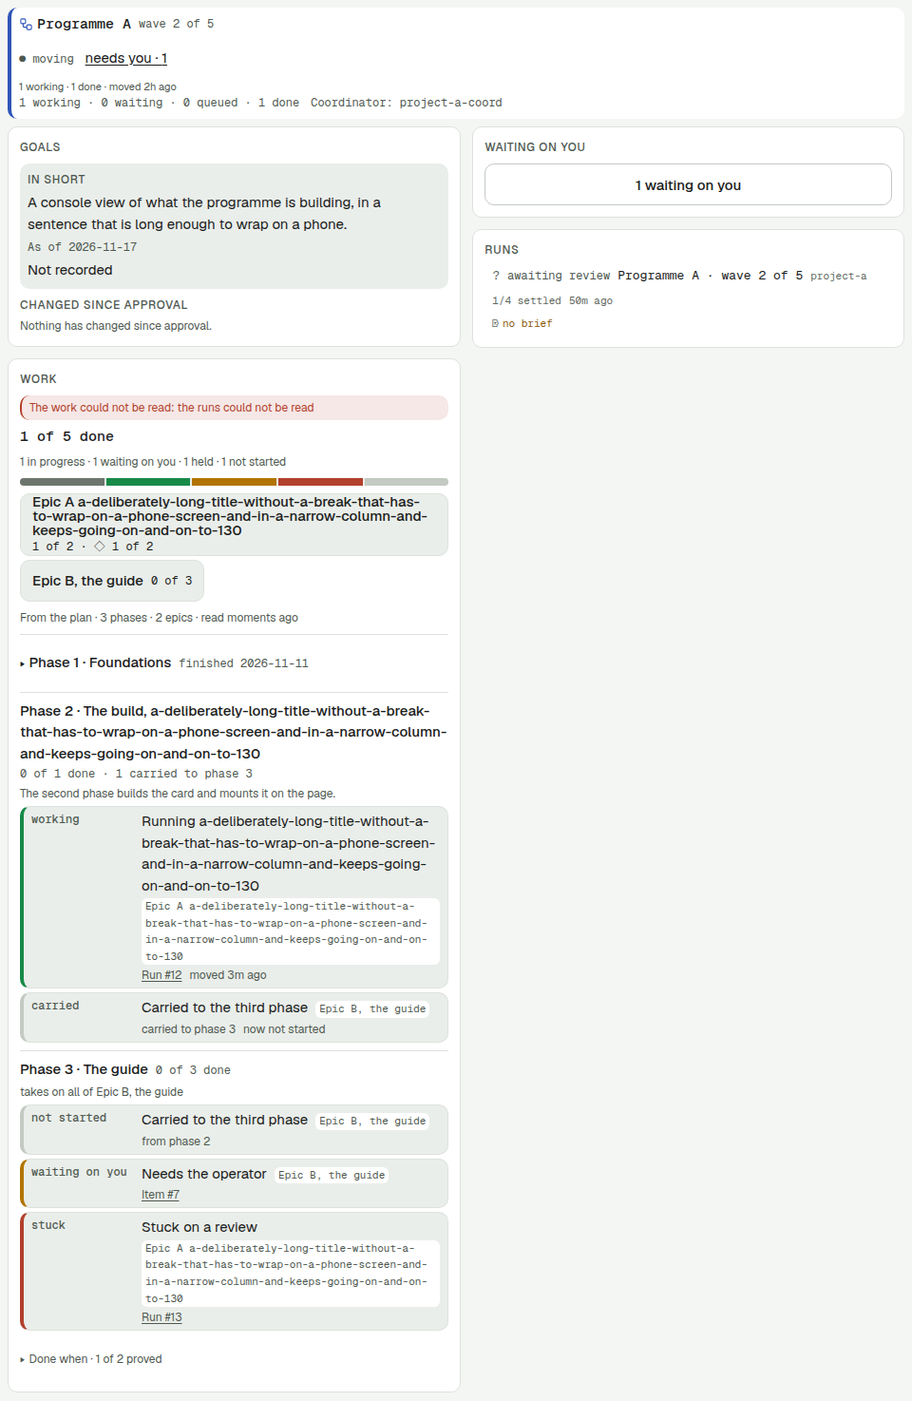
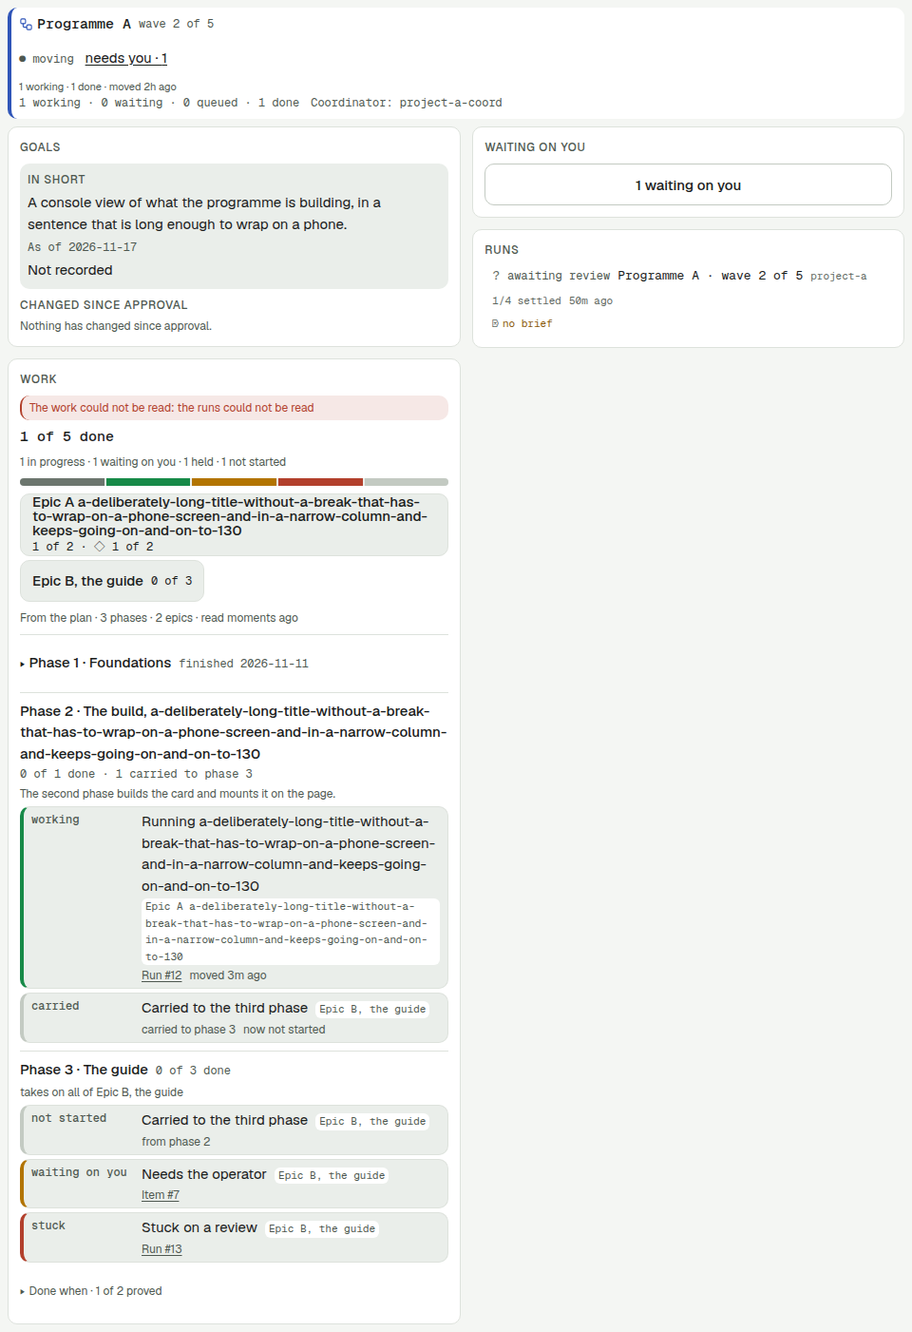
fix(console): the work card keeps a title's room, reads a newer server's words and checks the shape it walks
The three-column row starts at 43rem, so a title keeps its phone room in a
one-column window of about 690 to 719px; the facts' third-track placement is
pinned in jsdom and in Chrome; the work read's shape check covers end,
beforePlan and runs; a status, checkpoint kind or unreadable word the build
does not know is drawn as the server wrote it; the browser sample data agrees
with itself and the pictures are re-taken.

diff --git a/pwa/browser/programme-work-page.browser.test.ts b/pwa/browser/programme-work-page.browser.test.ts
@@ -1,10 +1,13 @@
 // The programme page with its Work card (programme work map WM4, D-8823; plan Task WM4's width table; spec 2026-11-16 §5), in a
-// real Chrome over the production build, at 360, 390, 1280, 1470 and 1920, in both skins and both themes. `test/programme-screen.test.tsx`
+// real Chrome over the production build, at 360, 390, 800, 1280, 1470 and 1920, in both skins and both themes. `test/programme-screen.test.tsx`
 // holds the page's behaviour in jsdom (what it reads, keeps and links); this file holds what only an engine can say:
 //   * the order: at 360 and 390 one column, Goals, Work, Waiting on you, Runs; from 1280 two columns, Goals then Work on the
 //     left and Waiting on you then Runs on the right, Waiting on you level with the top of Goals;
 //   * the card's own layout follows ITS width, not the viewport's (D-8806 `layout-by-the-cards-width`): a row is one column at
-//     360 and 390 and three (status, title with its tag, facts) from 1280, measured as the row's computed grid tracks;
+//     360 and 390, two (status | title, the facts under the title) from a 26rem card, which is 1280, 1470 and 1920, and three (status,
+//     title with its tag, facts) from a 43rem card, which only an 800 window reaches (the page is one column under 900 and its card is
+//     as wide as the page); measured as the row's computed grid tracks and the facts' place. No desktop width draws the one-row layout:
+//     the left column's card is about 450px at 1280 and about 550px at 1920 (review 2956 F3);
 //   * nothing scrolls sideways, and nothing is clipped or cut short: no phase title, ticket title or epic tag wider than its box,
 //     no ellipsis, with a title of 130 unbroken characters and a long epic and phase title that have to wrap, the folded groups
 //     opened as well as closed.
@@ -23,9 +26,12 @@ import { itemView, waitingView } from '../test/ledgersFixture';
 
 const THEMES = [PHOSPHOR, 'light'];
 const SKINS = [REFINED, INSTRUMENT];
-// 800 is the one sampled width between 690 and 900: the page is one column there and the card as wide as the page, so the card's 40rem step
-// applies, which no wider window reaches the left column of (review 2922 A7).
+// 800 is the one sampled width between 690 and 900: the page is one column there and the card as wide as the page, so the card's 43rem step
+// applies, which no wider window reaches the left column of (review 2922 A7). The windows just under the step are sampled on their own
+// below (`NEAR_THE_STEP`), where the title's room was short before the step moved from 40rem (review 2956 F2).
 const WIDTHS = [360, 390, 800, 1280, 1470, 1920];
+/** The one-column windows that put the card just under, and just past, the 43rem three-column step (a card is the window less 42px here). */
+const NEAR_THE_STEP = [690, 700, 715, 719, 725, 731, 740];
 const named = (v: AppView): string => `${v.skin}, ${v.theme}, ${v.width}px`;
 
 const NOW = Date.now();
@@ -46,7 +52,7 @@ const ITEMS = [
   ticket('t-3', 'Carried to the third phase', 'not-started', 'not-started', { epic: EPIC_B, phases: [
     { key: 'p2', number: 2, carriedTo: { key: 'p3', number: 3 }, carriedFrom: [] }, { key: 'p3', number: 3, carriedTo: null, carriedFrom: [{ key: 'p2', number: 2 }] }] }),
   ticket('t-4', 'Needs the operator', 'waiting-on-you', 'waiting-on-you', { epic: EPIC_B, itemIds: [7], phases: [{ key: 'p3', number: 3, carriedTo: null, carriedFrom: [] }] }),
-  ticket('t-5', 'Stuck on a review', 'stuck', 'held', { runId: 13, phases: [{ key: 'p3', number: 3, carriedTo: null, carriedFrom: [] }] }),
+  ticket('t-5', 'Stuck on a review', 'stuck', 'held', { epic: EPIC_B, runId: 13, phases: [{ key: 'p3', number: 3, carriedTo: null, carriedFrom: [] }] }),
 ];
 const WORK: WorkMapView = {
   source: 'plan', end: null, verdicts: 'read', counts: { ...ZERO, done: 1, 'in-progress': 1, 'waiting-on-you': 1, held: 1, 'not-started': 1 }, items: ITEMS,
@@ -126,6 +132,8 @@ interface Measured {
   /** The first ticket row's computed grid tracks, in px: one on a phone, two (status | title, the facts under the title) from a 26rem card,
    *  three (status | title | facts) from a 40rem card. */
   tracks: number[];
+  /** A row with facts (t-2): its title and its facts, as boxes, to say where the facts stand against the title (review 2956 F5). */
+  placed: { what: Box; facts: Box };
   rem: number;
   /** The width of the plain ticket's `.wk-what` (its title with its tag): the room a title has (review 2922 F2). */
   titleTrack: number;
@@ -162,6 +170,7 @@ const measure = (root: Element): Measured => {
     root: { scrollWidth: root.scrollWidth, clientWidth: root.clientWidth, box: box(root) },
     goals: box(one('.pv-main > .pv-card')), work: box(card.closest('.pv-card')!), cardWidth: cardBox.width, waiting: box(one('section[aria-label="Waiting on you"]')), runs: box(one('[data-testid="programme-runs"]')),
     tracks: getComputedStyle(row).gridTemplateColumns.split(' ').map(parseFloat),
+    placed: { what: box(one('.wk-row[data-ticket="t-2"] .wk-what')), facts: box(one('.wk-row[data-ticket="t-2"] .wk-facts')) },
     rem: parseFloat(getComputedStyle(document.documentElement).fontSize),
     titleTrack: box(one('.wk-row[data-ticket="t-4"] .wk-what')).width,
     head: {
@@ -192,13 +201,24 @@ const open = async (view: AppView) => {
 };
 
 /** The card's row layout by the card's own width, as the stylesheet's two container steps say it (`card-width-steps`): one track below 26rem, two
- *  from 26rem (status | title, the facts under it), three from 40rem (status | title | facts); the status track is 6.75rem and then 7.5rem. */
+ *  from 26rem (status | title, the facts under it), three from 43rem (status | title | facts); the status track is 6.75rem and then 7.5rem. */
+const STEP_THREE = 43;
+const STEP_TWO = 26;
 const assertRowLayout = (m: Measured, at: string, width: number): void => {
-  const want: readonly [number | null, number] = m.cardWidth >= 40 * m.rem ? [7.5, 3] : m.cardWidth >= 26 * m.rem ? [6.75, 2] : [null, 1];
+  const want: readonly [number | null, number] = m.cardWidth >= STEP_THREE * m.rem ? [7.5, 3] : m.cardWidth >= STEP_TWO * m.rem ? [6.75, 2] : [null, 1];
   expect(m.tracks.length, `${at}: a ${Math.round(m.cardWidth)}px card draws ${m.tracks.length} row tracks, not ${want[1]}`).toBe(want[1]);
   if (want[0] !== null) expect(m.tracks[0], `${at}: the status track`).toBeCloseTo(want[0] * m.rem, 0);
-  // From 800 up a row is never stacked in one column; the 800 case is the one that reaches the second step on a window under 900.
+  // Where the facts stand (review 2956 F5): in the third track, right of the title, from the three-column step; under the title, level with its
+  // left edge, in a two-track row. Deleting the facts' `grid-column: auto` leaves them under the title with the third track empty: red here.
+  if (want[1] === 3) expect(m.placed.facts.left, `${at}: the facts are not right of the title in a three-track row`).toBeGreaterThanOrEqual(m.placed.what.right - 0.5);
+  if (want[1] === 2) {
+    expect(m.placed.facts.top, `${at}: the facts are not under the title in a two-track row`).toBeGreaterThanOrEqual(m.placed.what.bottom - 0.5);
+    expect(Math.abs(m.placed.facts.left - m.placed.what.left), `${at}: the facts are not under the title's left edge`).toBeLessThan(1);
+  }
+  // From 800 up a row is never stacked in one column; the 800 case is the one that reaches the second step on a window under 900, and it has to
+  // reach it: a sample whose card fell under the step would pass the track count above on the wrong layout (review 2956 M6).
   if (width >= 800) expect(m.tracks.length, `${at}: a row is stacked on a wide window`).toBeGreaterThanOrEqual(2);
+  if (width === 800) expect(m.cardWidth, `${at}: the 800 sample no longer reaches the three-column step`).toBeGreaterThanOrEqual(STEP_THREE * m.rem);
 };
 
 let phoneTrack: Promise<number> | undefined;
@@ -210,6 +230,18 @@ const phoneTitleTrack = (): Promise<number> => {
   })();
   return phoneTrack;
 };
+
+// The sample data agrees with itself (review 2956 F4): a row's tag names the epic that lists it, so a chip's count and the rows under it, and every
+// picture taken from this data, read the way a real server's data does (it builds a row's tag and an epic's items from the same epic key).
+describe('the sample data is consistent (WM7)', () => {
+  it('every epic lists the tickets whose tag names it, and only those', () => {
+    for (const e of WORK.epics) {
+      expect(ITEMS.filter((i) => i.epic?.key === e.key).map((i) => i.key), `epic ${e.key}`).toEqual(e.items);
+      expect(e.total, `epic ${e.key}'s total`).toBe(e.items.length);
+    }
+    expect(WORK.epics.flatMap((e) => e.items).sort(), 'every ticket is listed by one epic').toEqual(ITEMS.map((i) => i.key).sort());
+  });
+});
 
 describe('the programme page with its Work card, per width, skin and theme (WM4)', () => {
   for (const width of WIDTHS) {
@@ -272,6 +304,28 @@ describe('the programme page with its Work card, per width, skin and theme (WM4)
         }
       }
     }, 300_000);
+  }
+});
+
+// Review 2956 F2: just under the three-column step a one-column window's card is 640 to 688px, where the three tracks (the first form of
+// the step, 40rem) left the title 259 to 307px against the phone's 297. From 43rem it keeps 307px or more, and below it the two-track row
+// keeps over 500px, so the title's room at every window near the step is at least the phone's.
+describe('a ticket\'s title keeps its phone room just under and just past the three-column step (WM7)', () => {
+  for (const width of NEAR_THE_STEP) {
+    it(`at ${width}px, ${REFINED}, light`, async () => {
+      const view: AppView = { skin: REFINED, theme: 'light', width };
+      const { ctx, errors, root } = await open(view);
+      try {
+        const m = await root.evaluate(measure);
+        const ref = await phoneTitleTrack();
+        expect(m.titleTrack, `${width}px: a ticket's title has less room (${Math.round(m.titleTrack)}px) than on a phone (${Math.round(ref)}px)`).toBeGreaterThanOrEqual(ref - 1);
+        assertRowLayout(m, `${width}px`, width);
+        expect(m.pageScrollWidth, `${width}px: the page scrolls sideways`).toBeLessThanOrEqual(m.pageClientWidth);
+        expect(errors, 'page errors').toEqual([]);
+      } finally {
+        await ctx.close();
+      }
+    }, 120_000);
   }
 });
 

diff --git a/pwa/test/work-card.test.tsx b/pwa/test/work-card.test.tsx
@@ -10,7 +10,7 @@ import { WORK_APART_GROUPS, WORK_COUNTED_GROUPS, WORK_GROUPS, WORK_STATUSES, typ
 import { WorkCard } from '../src/ledgers/WorkCard';
 import type { WorkCardAnswer } from '../src/ledgers/workMapWords';
 import {
-  NOTES, carriedWords, carriedTargetsOf, doneWhenLine, epicChip, foldLabel, headline, initiativeNote, outstandingLine, phaseLine, sourceLine, statusWord,
+  NOTES, carriedWords, carriedTargetsOf, checkpointFacts, doneWhenLine, epicChip, foldLabel, headline, initiativeNote, outstandingLine, phaseLine, sourceLine, statusWord,
   readFailedNote, unreadableNote, untitledWords, wholeEpicLine,
 } from '../src/ledgers/workMapWords';
 import { effectiveValue, stripComments } from './cssRule';
@@ -607,9 +607,16 @@ describe('the layout rows of the plan table', () => {
   const css = stripComments(readFileSync(path.join(__dirname, '../src/ledgers/ledgers.css'), 'utf8'));
   it('a row is one column at 360 and 390, and one row from the wide layouts', () => {
     expect(css).toMatch(/\.wk-card \.wk-row\s*\{[^}]*grid-template-columns:\s*minmax\(0, 1fr\)/);
-    // Two steps (WM4, D-8823 `card-width-steps`, fix round 1): two columns from 26rem with the facts under the title, three from 40rem.
+    // Two steps (WM4, D-8823 `card-width-steps`, fix round 1): two columns from 26rem with the facts under the title, three from 43rem.
     expect(css).toMatch(/@container work \(min-width: 26rem\)\s*\{[^@]*\.wk-card \.wk-row\s*\{[^}]*grid-template-columns:\s*6\.75rem minmax\(0, 1fr\);[^@]*\.wk-card \.wk-facts\s*\{\s*grid-column:\s*2;/);
-    expect(css).toMatch(/@container work \(min-width: 40rem\)\s*\{[^@]*\.wk-card \.wk-row\s*\{[^}]*grid-template-columns:\s*7\.5rem minmax\(0, 1fr\) minmax\(0, 14rem\)/);
+    expect(css).toMatch(/@container work \(min-width: 43rem\)\s*\{[^@]*\.wk-card \.wk-row\s*\{[^}]*grid-template-columns:\s*7\.5rem minmax\(0, 1fr\) minmax\(0, 14rem\)/);
+    // The facts go back into the third track from that step: without `grid-column: auto` they stay in column 2, under the title, and the
+    // third track stays empty on every card of 43rem or wider (review 2956 F5).
+    expect(css).toMatch(/@container work \(min-width: 43rem\)\s*\{[^@]*\.wk-card \.wk-facts\s*\{[^}]*grid-column:\s*auto/);
+    // The step keeps a title at least the room a phone gives it (review 2956 F2): the card's width at the step less the three tracks and the chrome
+    // (21 + 16 + 120 + 224 = 381px at 16px a rem) is no less than the phone's 318 - 21 = 297px.
+    const step = Number(/@container work \(min-width: (\d+)rem\)\s*\{[^@]*7\.5rem minmax/.exec(css)![1]);
+    expect(step * 16 - 381, 'a title keeps its phone room at the three-column step').toBeGreaterThanOrEqual(297);
     expect(effectiveValue(css, '.wk-card .wk-strip', 'flex-wrap')).toBe('wrap');
   });
   it('colours are tokens only', () => {
@@ -720,5 +727,34 @@ describe('the page\'s failed read (WM4, D-8823 failed-read-arm)', () => {
   it('spells the sentence once for the server\'s word and the page\'s', () => {
     expect(readFailedNote('x')).toBe('The work could not be read: x');
     expect(unreadableNote('read-failed')).toBe(readFailedNote('a read failed'));
+  });
+});
+
+// Review 2873 F15: every word the server sends is looked up in a table of this build's words, and one this build does not know (a
+// newer server's) reads as itself, never as "undefined".
+describe('a word from a newer server reads as itself (review 2873 F15)', () => {
+  it('a ticket status this build has no word for is drawn as the server wrote it', () => {
+    const t = item('t-1', 'not-started', { status: 'newly-added' as WorkStatus });
+    const { container } = draw(view({ counts: zero({ 'not-started': 1 }), items: [t], epics: [epic(EPIC_A, { total: 1, items: ['t-1'] })] }));
+    expect(container.querySelector('.wk-row .wk-status')!.textContent).toBe('newly-added');
+    expect(container.textContent).not.toContain('undefined');
+    expect(statusWord('constructor' as WorkStatus)).toBe('constructor');
+    expect(statusWord('working')).toBe('working');
+  });
+
+  it('a carried row keeps an unknown status now as the server wrote it', () => {
+    expect(carriedWords.now('newly-added' as WorkStatus)).toBe('now newly-added');
+    expect(carriedWords.now('working')).toBe('now working');
+  });
+
+  it('a checkpoint kind this build has no word for is written as the server wrote it', () => {
+    expect(checkpointFacts({ kind: 'new-kind' as never, state: 'open', metAt: null, evidence: null })).toBe('new-kind · open');
+    expect(checkpointFacts({ kind: 'operator-act', state: 'open', metAt: null, evidence: null })).toBe('operator act · open');
+  });
+
+  it('an unreadable word this build has no phrase for is written as the server wrote it, on the note and on the card', () => {
+    expect(unreadableNote('new-word' as never)).toBe('The work could not be read: new-word');
+    draw({ unreadable: 'new-word' as never });
+    expect(screen.getByRole('alert').textContent).toBe('The work could not be read: new-word');
   });
 });

diff --git a/pwa/src/ledgers/workMapWords.ts b/pwa/src/ledgers/workMapWords.ts
@@ -25,6 +25,11 @@ export type WorkCardAnswer =
   | { unreadable: WorkUnreadable; last?: WorkMapView | null }
   | { readFailed: string; last?: WorkMapView | null };
 
+/** A server's word looked up in a table of this build's words. A word the table does not hold (a newer server's) reads as itself,
+ *  never as "undefined" (review 2873 F15); `hasOwn`, so a word such as "constructor" is not found on the prototype. One owner of
+ *  the fallback: every lookup of a word the server sent goes through it. */
+const wordIn = (table: Readonly<Record<string, string>>, word: string): string => (Object.hasOwn(table, word) ? table[word]! : word);
+
 /** A ticket's status in the operator's words, one per `WorkStatus` and spelt once (spec Table 6). `done-unverified` is the
  *  front of "marked done, but …": the row's facts carry the reason that finishes the sentence. */
 export const STATUS_WORD: Readonly<Record<WorkStatus, string>> = {
@@ -44,7 +49,7 @@ export const STATUS_WORD: Readonly<Record<WorkStatus, string>> = {
   'not-started': 'not started',
   failed: 'failed',
 };
-export const statusWord = (status: WorkStatus): string => STATUS_WORD[status];
+export const statusWord = (status: WorkStatus): string => wordIn(STATUS_WORD, status);
 
 /** An outstanding group's words in the outstanding line (spec §5 item 1). Keyed by the counted groups less `done`, so a group
  *  the server starts counting is a compile error until it has a word; the line writes them in `WORK_COUNTED_GROUPS` order
@@ -157,7 +162,7 @@ export const carriedWords = {
   status: 'carried',
   to: (n: number): string => `carried to phase ${n}`,
   /** A carried-out row keeps its status now beside the carry (spec Table 6a: "carried to phase N, with its status now"). */
-  now: (status: WorkStatus): string => `now ${STATUS_WORD[status]}`,
+  now: (status: WorkStatus): string => `now ${statusWord(status)}`,
   from: (f: { key: string; number: number | null }): string => (f.number === null ? `from phase ${f.key}, dropped` : `from phase ${f.number}`),
 } as const;
 
@@ -190,7 +195,7 @@ const UNREADABLE_WHY: Readonly<Record<WorkUnreadable, string>> = {
 export const UNREADABLE_WORDS: readonly WorkUnreadable[] = Object.keys(UNREADABLE_WHY) as WorkUnreadable[];
 /** The note over a card whose read failed; the one sentence, spelt once, for the server's `unreadable` and the page's failed read. */
 const couldNotRead = (why: string): string => `The work could not be read: ${why}`;
-export const unreadableNote = (why: WorkUnreadable): string => couldNotRead(UNREADABLE_WHY[why]);
+export const unreadableNote = (why: WorkUnreadable): string => couldNotRead(wordIn(UNREADABLE_WHY, why));
 /** The page's failed read, in the refusal's own word ("The work could not be read: not-found"). */
 export const readFailedNote = (word: string): string => couldNotRead(word);
 /** The card's section name, and the strip's. */
@@ -223,6 +228,6 @@ export const CHECKPOINT_KIND_WORD: Readonly<Record<CheckpointKind, string>> = {
 export function checkpointFacts(cp: { kind: CheckpointKind; state: string; metAt: number | null; evidence: CheckpointEvidence | null }): string {
   const evidence = cp.evidence === null ? null : 'pr' in cp.evidence ? `PR #${cp.evidence.pr}` : 'itemId' in cp.evidence ? itemLinkWord(cp.evidence.itemId) : cp.evidence.path;
   const state = cp.state === 'met' ? (cp.metAt === null ? 'met' : `met ${releaseDate(cp.metAt)}`) : cp.state;
-  return [CHECKPOINT_KIND_WORD[cp.kind], state, ...(evidence === null ? [] : [evidence])].join(' · ');
+  return [wordIn(CHECKPOINT_KIND_WORD, cp.kind), state, ...(evidence === null ? [] : [evidence])].join(' · ');
 }
 export const checkpointsLabel = (epicTitle: string): string => `Checkpoints of ${epicTitle}`;

diff --git a/pwa/test/programme-screen.test.tsx b/pwa/test/programme-screen.test.tsx
@@ -1059,7 +1059,7 @@ describe('the programme page: the Work card (WM4)', () => {
 
 // What the page does with each answer is decided once, in `workRead.ts` (L1); the screen only holds its state and draws it.
 describe('the work read: the page keeps the last view, and the time of the last good read', () => {
-  const shape = { source: 'plan', counts: {}, phases: [], notInPhase: [], epics: [], initiatives: [], doneWhen: [] };
+  const shape = { source: 'plan', counts: {}, phases: [], notInPhase: [], epics: [], initiatives: [], doneWhen: [], end: null, beforePlan: null, runs: null };
   const view = { ...shape, items: [] } as unknown as WorkMapView;
   const other = { ...shape, items: [{ key: 'x' }] } as unknown as WorkMapView;
   const T0 = 1_000;
@@ -1097,6 +1097,24 @@ describe('the work read: the page keeps the last view, and the time of the last 
     }
     const notList = workReadNext(null, 'prog-a', { answer: { ok: true, plan: {}, work: { ...shape, items: [], epics: {} } } }, T0);
     expect(workCardOf(notList, 'prog-a')?.answer).toEqual({ readFailed: 'unreadable answer', last: null });
+  });
+
+  // Review 2956 F1: the card reads `end`, `beforePlan` and `runs` (and `runs.items`) when they are not null, so an answer where one is missing or
+  // is not an object (a partial answer from a newer or broken server) is a failed read that keeps the last view, never a render that throws.
+  it('a view whose end, beforePlan or runs is missing or is not an object is a failed read (review 2956 F1)', () => {
+    const held = workReadNext(null, 'prog-a', { answer: { ok: true, plan: {}, work: view } }, T0);
+    const failedWith = (over: Record<string, unknown>) => workCardOf(workReadNext(held, 'prog-a', { answer: { ok: true, plan: {}, work: { ...shape, items: [], ...over } } }, T0 + 1), 'prog-a')?.answer;
+    const FAILED = { readFailed: 'unreadable answer', last: view };
+    for (const field of ['end', 'beforePlan', 'runs']) {
+      expect(failedWith({ [field]: undefined }), `${field} missing`).toEqual(FAILED);
+      expect(failedWith({ [field]: 'text' }), `${field} a string`).toEqual(FAILED);
+    }
+    expect(failedWith({ runs: {} }), 'runs without items').toEqual(FAILED);
+    expect(failedWith({ runs: { items: {} } }), 'runs.items not a list').toEqual(FAILED);
+    // The same answers read, drawn, when each is null or an object the card can walk.
+    const ok = (over: Record<string, unknown>) => workCardOf(workReadNext(held, 'prog-a', { answer: { ok: true, plan: {}, work: { ...shape, items: [], ...over } } }, T0 + 1), 'prog-a')?.answer;
+    expect(ok({ end: { outcome: 'done', why: null, at: 5 }, beforePlan: { runs: 2 }, runs: { items: [], waves: null } })).toMatchObject({ source: 'plan' });
+    expect(ok({})).toMatchObject({ source: 'plan' });
   });
 
   it('nothing read yet is no card', () => {

diff --git a/pwa/src/ledgers/workRead.ts b/pwa/src/ledgers/workRead.ts
@@ -35,10 +35,15 @@ const WORD_UNREADABLE_ANSWER = 'unreadable answer';
 const wordOf = (answer: unknown): string =>
   isRecord(answer) && typeof answer.error === 'string' && answer.error !== '' ? answer.error : WORD_UNREADABLE_ANSWER;
 
-/** A view the card can draw: every list it walks is a list, and `counts` is an object. An answer that is anything less (a partial object from a
- *  newer or broken server) is a failed read, never a render that throws (review 2922 F3). */
+/** A view the card can draw, as far as the card dereferences it: `counts` is an object, every list the card walks is a list, and `end`,
+ *  `beforePlan` and `runs` are each null or an object (`runs` with its `items` a list), the three it reads a member of when they are not
+ *  null. It does not look inside a row, a phase or an epic: those are the server's typed records. An answer that fails this (a partial
+ *  object from a newer or broken server) is a failed read, never a render that throws (review 2922 F3; review 2956 F1). */
 const VIEW_LISTS = ['items', 'phases', 'notInPhase', 'epics', 'initiatives', 'doneWhen'] as const;
-const isViewShape = (v: unknown): v is WorkMapView => isRecord(v) && isRecord(v.counts) && VIEW_LISTS.every((k) => Array.isArray(v[k]));
+const isNullOrRecord = (v: unknown): boolean => v === null || isRecord(v);
+const isViewShape = (v: unknown): v is WorkMapView =>
+  isRecord(v) && isRecord(v.counts) && VIEW_LISTS.every((k) => Array.isArray(v[k]))
+  && isNullOrRecord(v.end) && isNullOrRecord(v.beforePlan) && (v.runs === null || (isRecord(v.runs) && Array.isArray(v.runs.items)));
 
 /** The state after an event. A state held for another programme is not carried into this one's read. */
 export function workReadNext(prev: WorkRead | null, slug: string, event: WorkReadEvent, now: number): WorkRead {

diff --git a/pwa/src/ledgers/ledgers.css b/pwa/src/ledgers/ledgers.css
@@ -589,14 +589,17 @@
 /* Two steps, measured on the programme page (WM4, D-8823 `card-width-steps`, as fix round 1 changed it). The left column is a 451px
    card at a 1280 window and 532px at 1470, and a ticket's title must never have less room there than on a phone. So from 26rem a
    row is two columns, the status beside the title with its tag, and the facts on a row of their own under the title (the title keeps
-   the card's width less one 6.75rem status track); the three-column row, status | title | facts, waits for 40rem, where the title
-   keeps more than it had on the narrow step. An empty facts row draws nothing. */
+   the card's width less one 6.75rem status track); the three-column row, status | title | facts, waits for 43rem.
+   The step is 43rem and not 40rem because the three tracks leave the title the card's width less 381px (21 of chrome, 16 of gaps, a 120px
+   status track, a 224px facts track): at 40rem, 640px, that is 259px, under the 297px a phone gives it, and a one-column window of about 690
+   to 719px drew exactly such a card (review 2956 F2). At 43rem, 688px, the title keeps 307px, more than the phone's 297, and every wider card
+   more. An empty facts row draws nothing. */
 @container work (min-width: 26rem) {
   .wk-card .wk-row { grid-template-columns: 6.75rem minmax(0, 1fr); align-items: start; }
   .wk-card .wk-facts { grid-column: 2; }
   .wk-card .wk-facts:empty { display: none; }
 }
-@container work (min-width: 40rem) {
+@container work (min-width: 43rem) {
   .wk-card .wk-row { grid-template-columns: 7.5rem minmax(0, 1fr) minmax(0, 14rem); }
   .wk-card .wk-facts { grid-column: auto; justify-content: flex-end; text-align: right; }
 }
